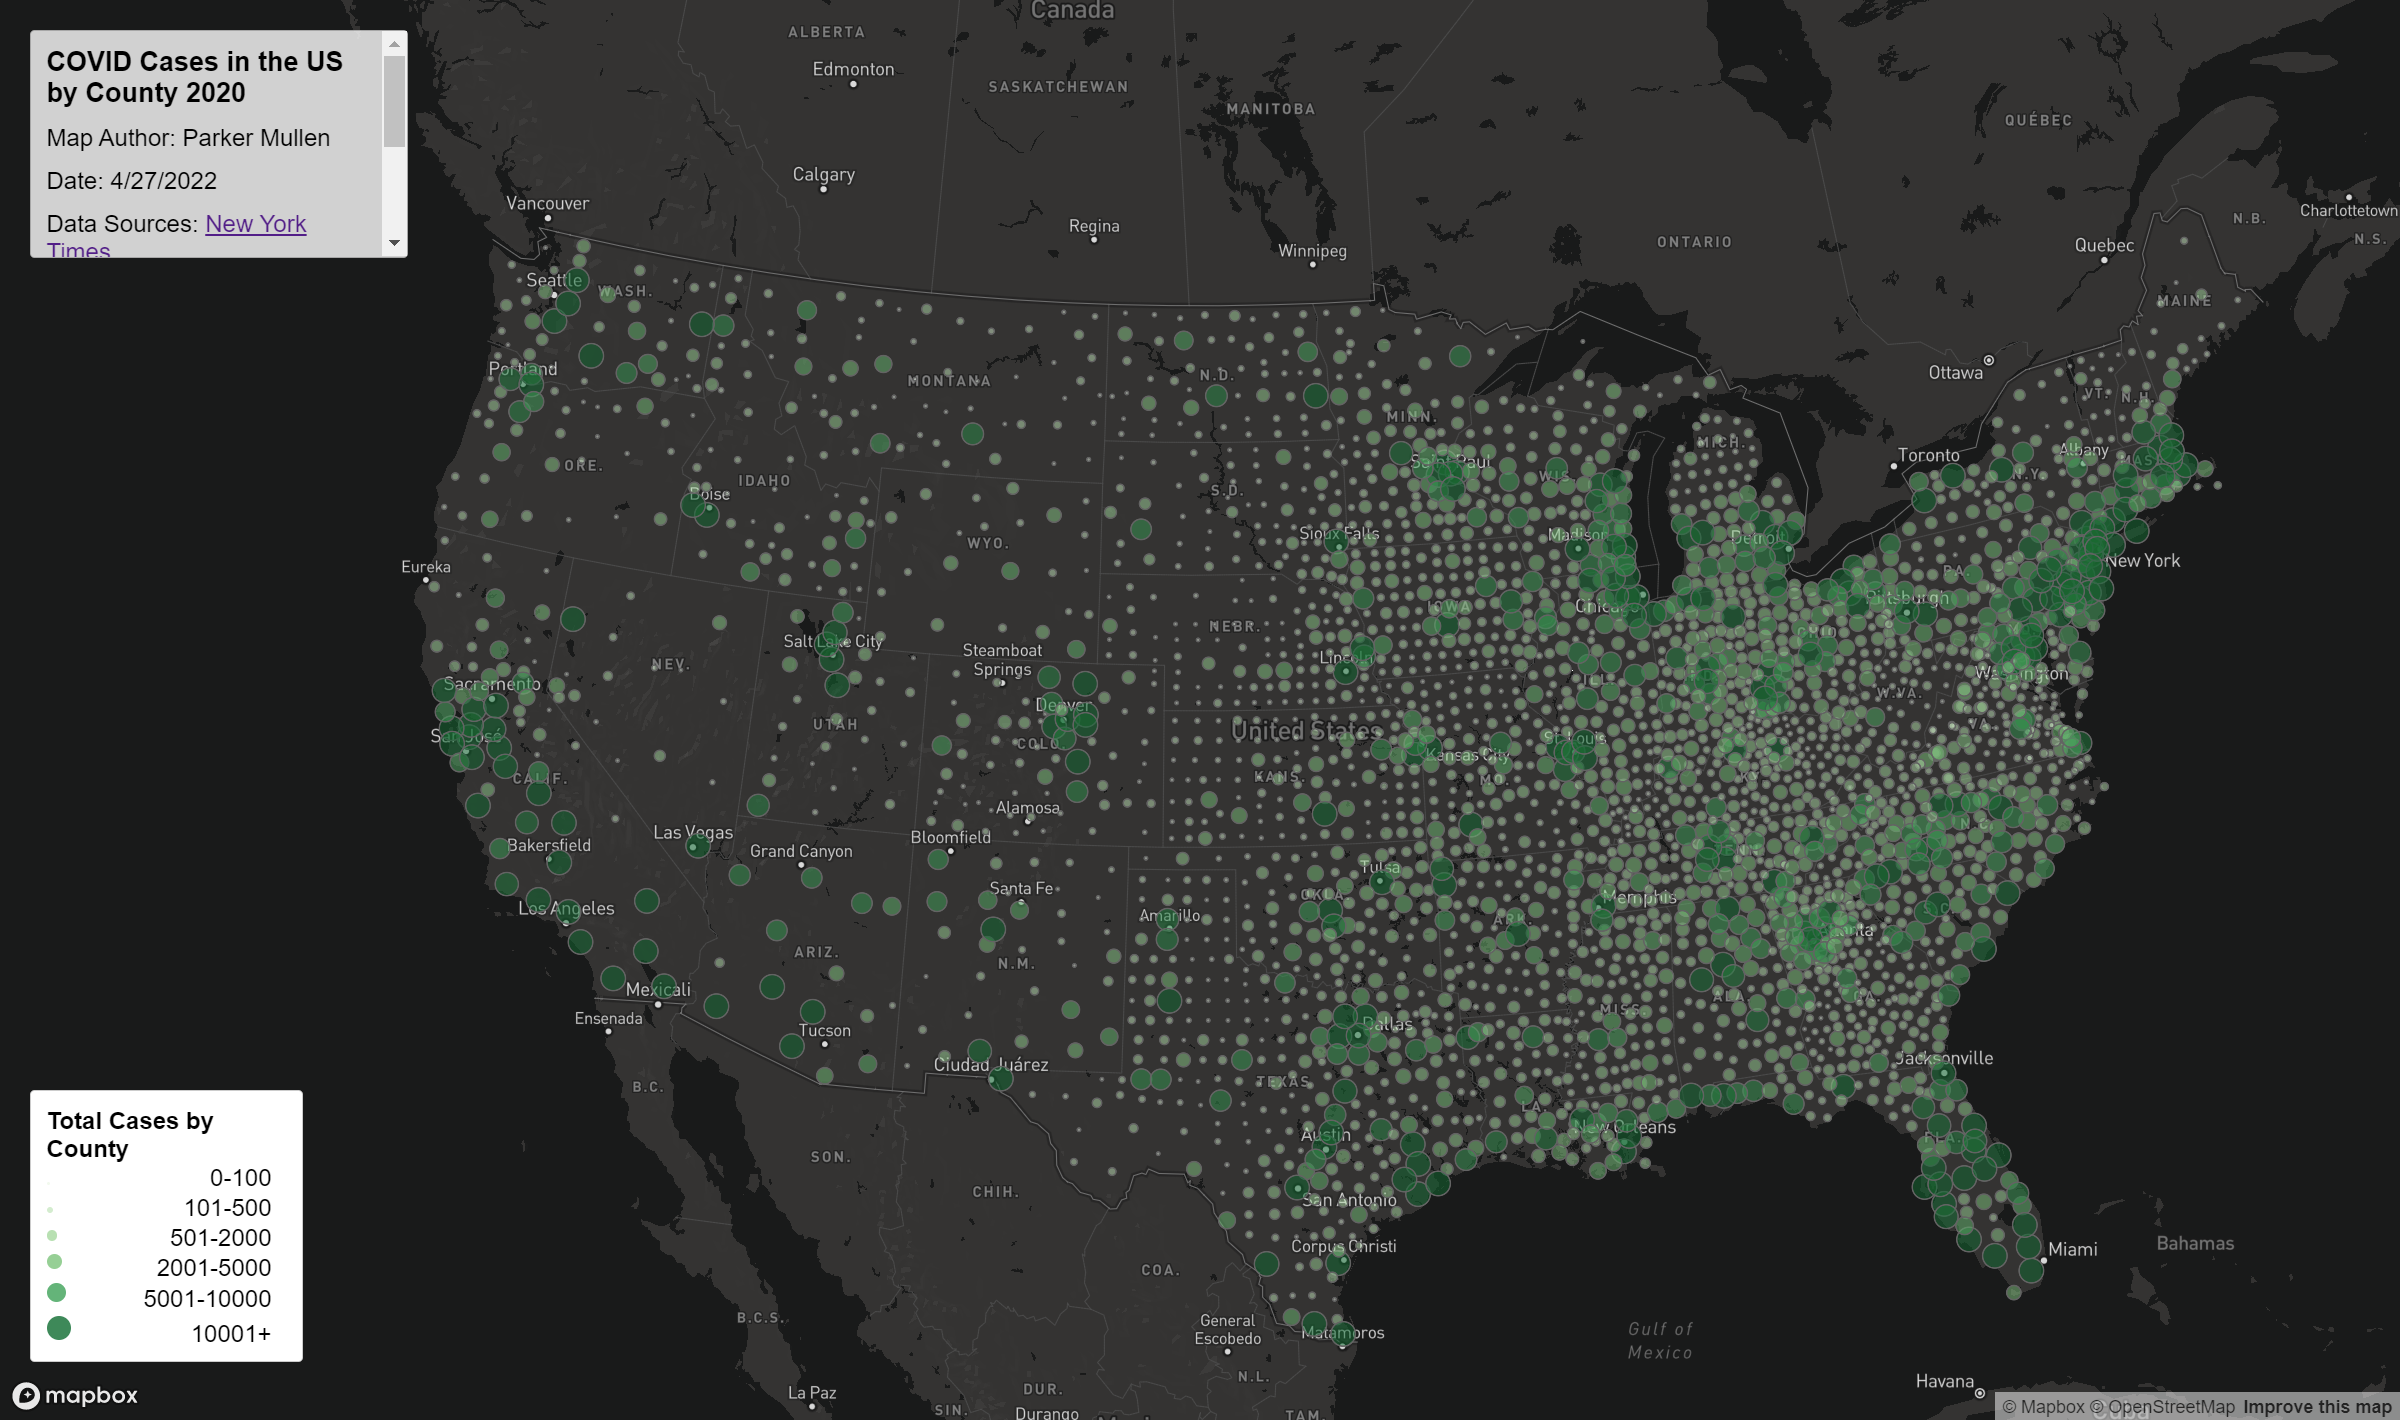
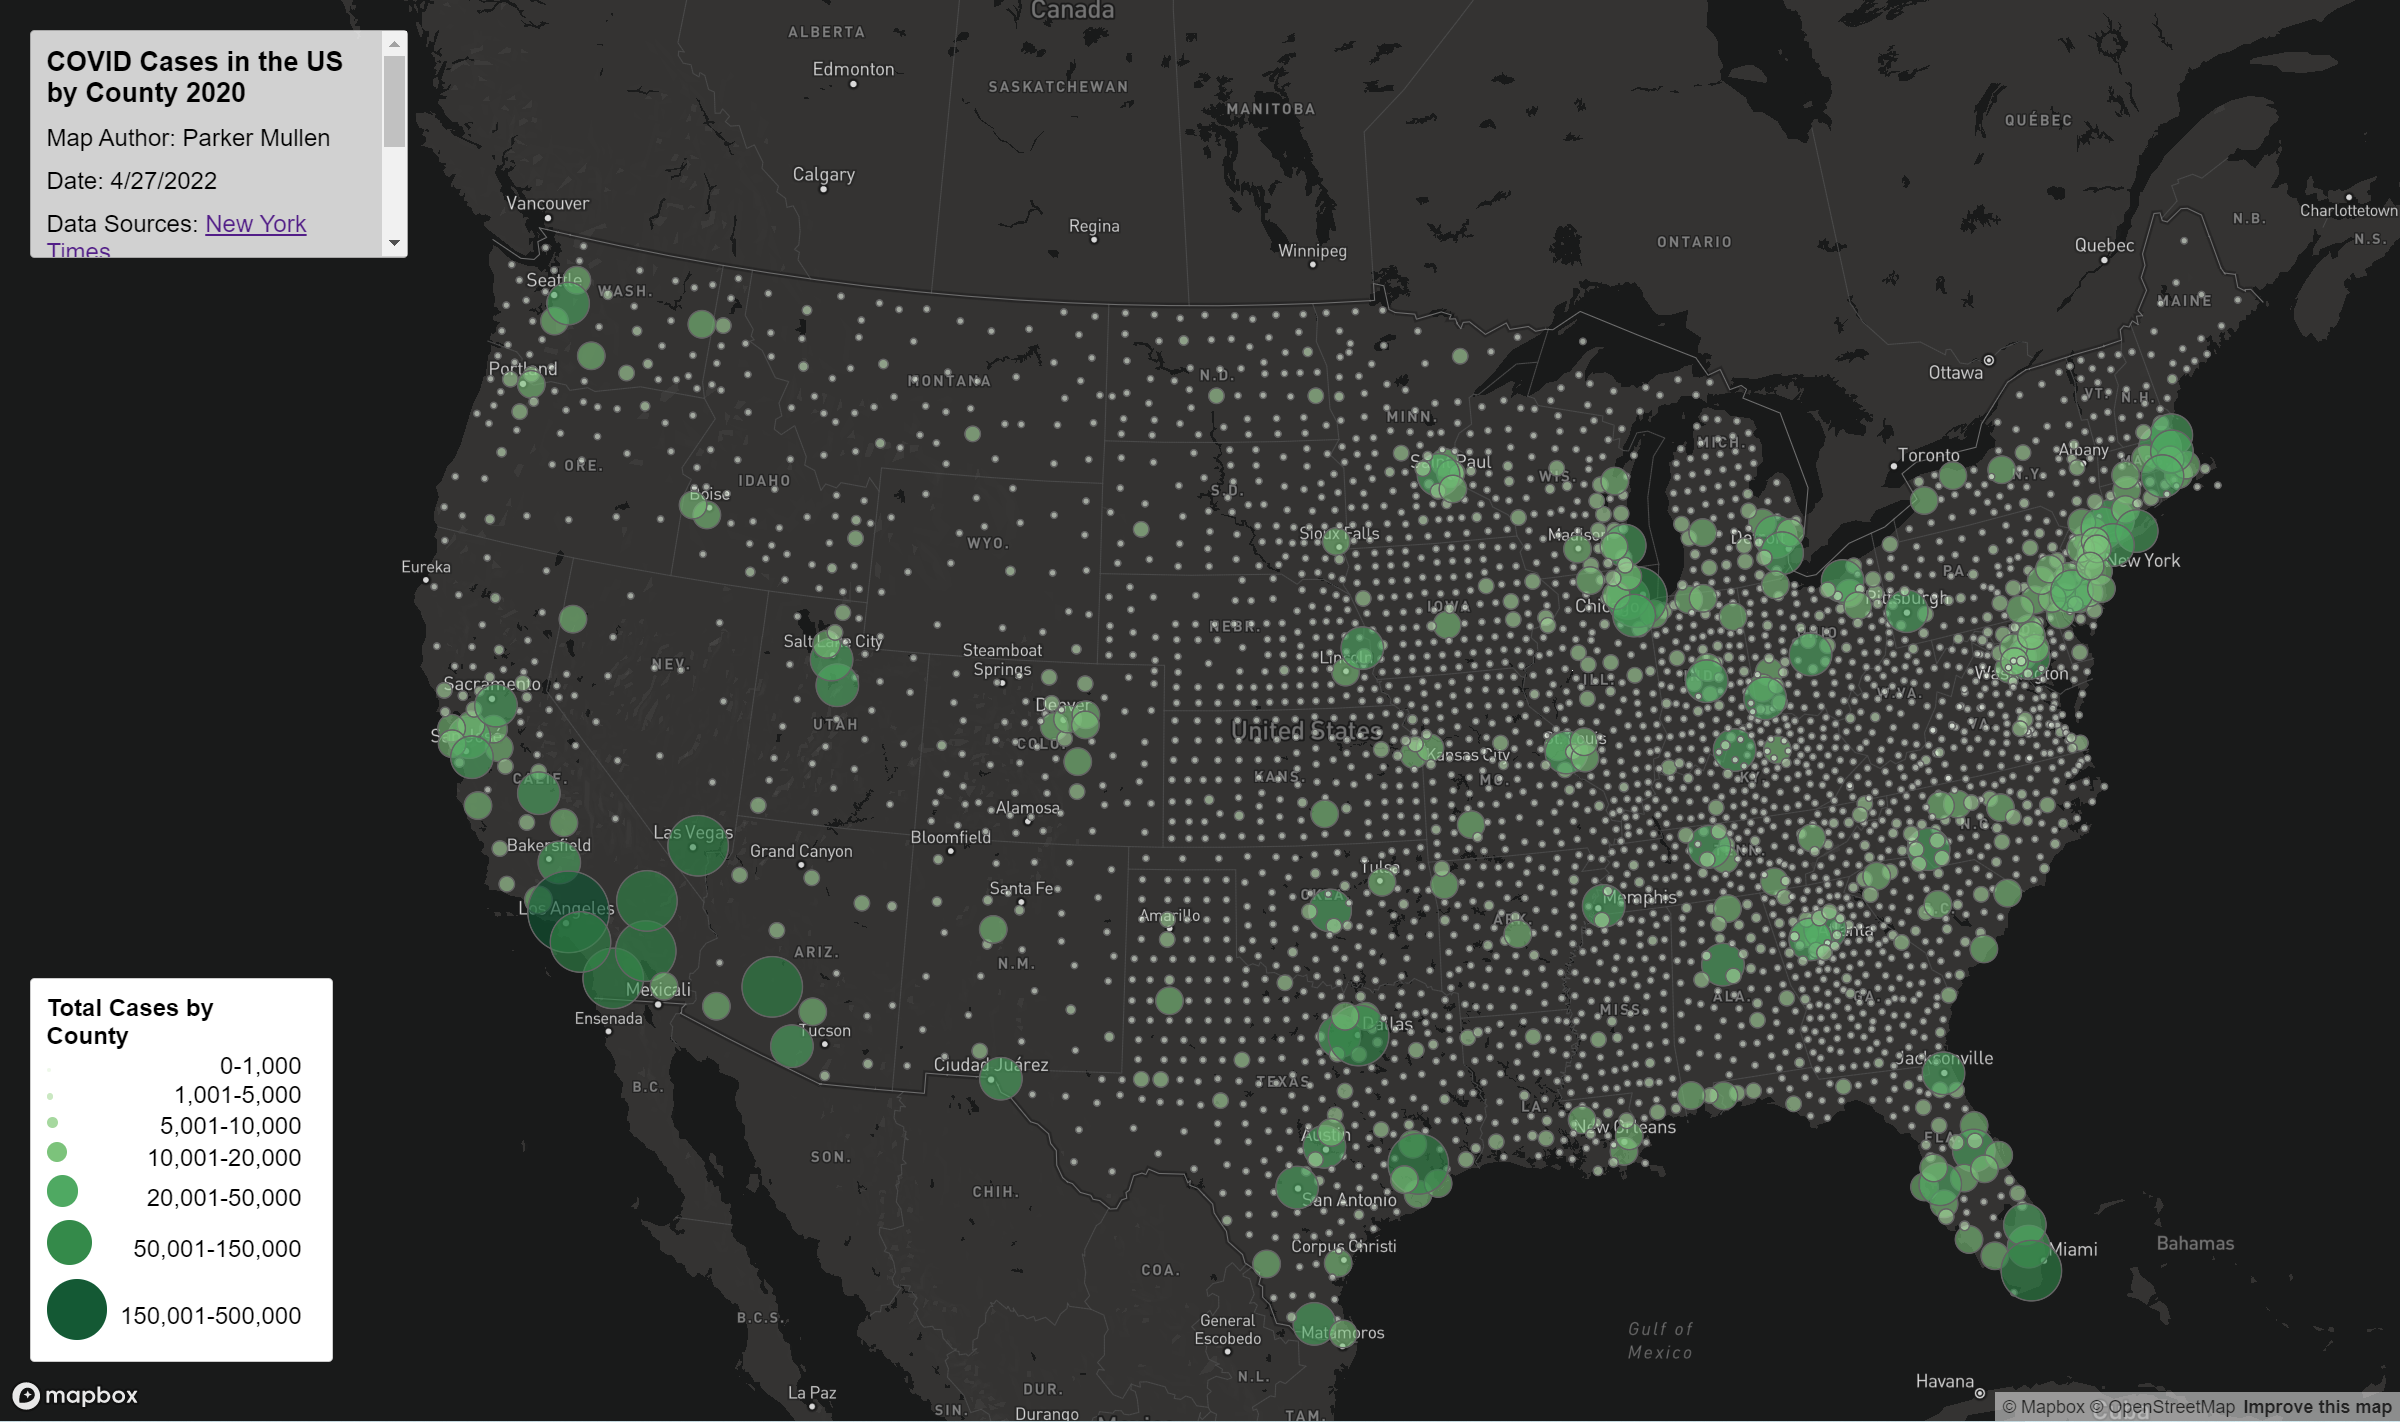
updating symbology

diff --git a/map2.html b/map2.html
@@ -58,7 +58,7 @@
             position: absolute;
             bottom: 0;
             left: 0;
-            width: 150px;
+            width: 170px;
             background: #fff;
             margin-left: 20px;
             margin-bottom: 40px;
@@ -77,7 +77,7 @@
             display: inline-block;
             margin-top: 5px;
             border-radius: 50%;
-            opacity: 0.8;
+            opacity: 1;
         }
 
         .dot-label {
@@ -115,9 +115,8 @@
             }
         });
 
-        const stops = [100, 500, 2000, 5000, 10000, 20000],
-            radius = [1, 2, 3.5, 5, 6.5, 8],
-            colors = ['rgb(237,248,233)', 'rgb(199,233,192)', 'rgb(161,217,155)', 'rgb(116,196,118)', 'rgb(49,163,84)', 'rgb(0,109,44)']
+        const radius = [2, 3, 5, 9, 14, 20, 27],
+            colors = ['#edf8e9', '#c7e9c0', '#a1d99b', '#74c476', '#41ab5d', '#238b45', '#005a32']
 
         map.on('load', () => {
             map.addSource('covid-cases', {
@@ -133,27 +132,31 @@
                     'paint': {
                         'circle-color': {
                             'property': 'cases',
+                            'type': 'interval',
                             'stops': [
-                                [100, '#edf8e9'],
-                                [500, '#c7e9c0'],
-                                [2000, '#a1d99b'],
-                                [5000, '#74c476'],
-                                [10000, '#31a354'],
-                                [20000, '#006d2c']
+                                [1000, '#edf8e9'],
+                                [5000, '#c7e9c0'],
+                                [10000, '#a1d99b'],
+                                [20000, '#74c476'],
+                                [50000, '#41ab5d'],
+                                [150000, '#238b45'],
+                                [500000, '#005a32']
                             ]
                         },
                         'circle-stroke-width': 1,
                         'circle-stroke-color': '#636363',
-                        'circle-opacity': 0.5,
+                        'circle-opacity': 0.6,
                         'circle-radius': {
                             'property': 'cases',
+                            'type': 'interval',
                             'stops': [
-                                [100, 1],
-                                [500, 2],
-                                [2000, 3.5],
-                                [5000, 5],
-                                [10000, 6.5],
-                                [20000, 8]
+                                [1000, 2],
+                                [5000, 3],
+                                [10000, 5],
+                                [20000, 9],
+                                [50000, 14],
+                                [150000, 20],
+                                [500000, 27]
                             ]
                         }
                     }
@@ -169,19 +172,20 @@
         });
 
         const layers = [
-            '0-100',
-            '101-500',
-            '501-2000',
-            '2001-5000',
-            '5001-10000',
-            '10001+'
+            '0-1,000',
+            '1,001-5,000',
+            '5,001-10,000',
+            '10,001-20,000',
+            '20,001-50,000',
+            '50,001-150,000',
+            '150,001-500,000'
         ]
 
         const legend = document.getElementById('legend');
         var labels = ['<strong>Total Cases by County</strong>'], vbreak;
         for (var i = 0; i < layers.length; i++) {
             vbreak = layers[i]
-            dot_radius = 2 * radius[i];
+            dot_radius = 1.5 * radius[i];
             labels.push(
                 '<p class="break"><i class="dot" style="background:' + colors[i] + '; width: ' + dot_radius +
                 'px; height: ' +
